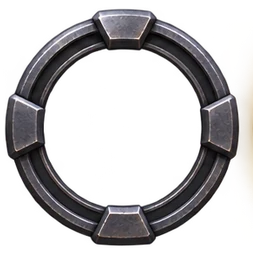
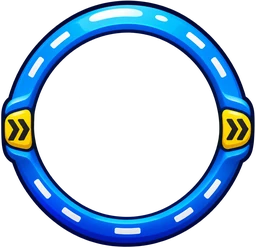
A-6: HUD estilo Supercell del Pack 19 (aros, +, rangos, panel del jugador, moneda, barras de vida)
Claude-Session: https://claude.ai/code/session_016LDX8vNq6QmcdLey8vJErm

diff --git a/public/batalla/autopista.html b/public/batalla/autopista.html
@@ -517,6 +517,41 @@ body.guiada #objetivo{display:none}body.cine #guia{visibility:hidden}
 .hb.hs::after{border-color:#e8eef6 !important;box-shadow:0 0 6px #fff6 !important;border-width:2px !important}
 .hb[data-k].pronta::after{border-color:#ffd21f !important;box-shadow:0 0 14px #ffd21fcc,inset 0 0 8px #ffd21f88 !important;inset:2% !important}
 .hb[data-k]:not(.pronta)::after{opacity:.75}
+</style><style>
+/* A-6 · Pack 19: aros de habilidad (hueco del 71 %; la definitiva, 66 %) */
+.hb[data-k]::after,.hb.hs::after{border:0 !important;box-shadow:none !important;border-radius:0 !important;background:url(ui/ap_aro_hab.webp) center/contain no-repeat !important;inset:-8% !important;opacity:1 !important;filter:drop-shadow(0 3px 3px #0008) !important}
+.hb[data-k].pronta::after{background-image:url(ui/ap_aro_hab_lista.webp) !important}
+#bR::after{background-image:url(ui/ap_aro_ulti.webp) !important;inset:-17% !important}
+#bR.pronta::after{background-image:url(ui/ap_aro_ulti_lista.webp) !important}
+.hb.hs::after{background-image:url(ui/ap_aro_hechizo.webp) !important}
+.hb[data-k]:not(.pronta)::after{filter:saturate(.75) brightness(.9) drop-shadow(0 3px 3px #0008) !important}
+.hb[data-k] img,.hb.hs img{inset:6% !important;width:88% !important;height:88% !important}
+.hb[data-k] .cd,.hb.hs .cd{inset:6% !important}
+.mas{background:url(ui/ap_mas.webp) center/contain no-repeat !important;border:0 !important;box-shadow:none !important;color:transparent !important;font-size:0 !important}
+.pip{gap:1px !important}.pip i{width:13px !important;height:7px !important;border:0 !important;border-radius:0 !important;background:url(ui/ap_punto_off.webp) center/contain no-repeat !important}
+.pip i.on{background-image:url(ui/ap_punto_on.webp) !important}
+/* panel del jugador: placa con el hueco del retrato (6,6 %–27,5 % del ancho) */
+#yo{width:196px;height:72px;box-sizing:border-box;background:url(ui/ap_panel_yo.webp) center/100% 100% no-repeat !important;border:0 !important;border-radius:0 !important;padding:0 10px 0 0 !important;gap:0 !important;position:relative}
+#yo::before{display:none !important}
+#yo img{width:44px !important;height:44px !important;margin:0 0 0 10px !important;border-radius:50%;border:0 !important}
+#yo>div{margin-left:18px;line-height:1.15;font-size:11px}
+#yoNv{position:absolute;left:38px;top:40px;width:26px;height:26px;background:url(ui/ap_insignia_nivel.webp) center/contain no-repeat;display:flex;align-items:center;justify-content:center;font:900 12px 'Arial Black',system-ui,sans-serif;color:#fff;-webkit-text-stroke:2px #0b1430;paint-order:stroke fill;z-index:2}
+#oro{display:flex;align-items:center;gap:3px;font-weight:900}#oro::before{content:'';width:15px;height:15px;background:url(ui/ap_moneda.webp) center/contain no-repeat;flex:none}
+.xp{width:92px !important;height:24px !important;box-sizing:border-box;background:url(ui/ap_barra_xp.webp) center/100% 100% no-repeat !important;border-radius:0 !important;padding:7px 14px 8px 16px;overflow:visible !important;margin:0 !important}
+.xp i{border-radius:3px}
+#vital{left:calc(208px + var(--sal)) !important}
+#kda{color:#fff !important;text-shadow:0 1px 0 #0b1430}
+#bTienda{top:calc(84px + var(--sat)) !important;width:54px !important;height:54px !important}
+#bZoom{top:calc(142px + var(--sat)) !important;width:46px !important;height:46px !important}
+#compraRapida{top:calc(84px + var(--sat)) !important}
+/* barras de vida de los héroes: la barra ocupa el hueco y el marco va encima (azul los tuyos, rojo enemigos, dorado tú) */
+.bv.h i{width:76px !important;height:9px !important;border:0 !important;border-radius:2px !important;box-shadow:none !important;background:#0b1220 !important;overflow:visible !important;z-index:0}
+.bv.h i u,.bv.h i s{border-radius:2px}
+.bv.h i::before{content:'';position:absolute;left:-15px;right:-13px;top:-6px;bottom:-6px;background:url(ui/ap_bv_azul.webp) center/100% 100% no-repeat;pointer-events:none;z-index:3}
+.bv.h.e1 i::before{background-image:url(ui/ap_bv_rojo.webp)}
+.bv.h.yo i{width:84px !important;height:10px !important}
+.bv.h.yo i::before{left:-20px;right:-20px;top:-8px;bottom:-8px;background-image:url(ui/ap_bv_yo.webp)}
+.bv.h b{margin-bottom:6px !important}.bv.h .mn{margin-top:6px}
 </style><style>#mFondo .fc{background-image:url(ui/ap_carga.webp)!important}#mFondo .ff,#mFondo .fm,#mFondo .fr{display:none}#menu .mSplash img{object-position:50% 0%!important}</style><style>.mTit h1.apLogo{margin:6px 0 0;line-height:0}.mTit h1.apLogo img{width:min(200px,calc(24 * var(--vw)));height:auto;filter:drop-shadow(0 4px 6px #000a)}.mTit h1.apA6{margin:6px 0 0;font:italic 900 46px 'Arial Black',system-ui,sans-serif!important;color:#ffd21f!important;letter-spacing:.04em;line-height:1;-webkit-text-stroke:2px #10161f;text-shadow:0 4px 0 #10161f,0 0 18px #2f8cff88}</style></head>
 <body>
 <div id="cargaVelo" class="hidden"><div class="cvR"></div><p>Preparando la autopista</p><b>0 %</b></div>

diff --git a/public/batalla/autopista.js b/public/batalla/autopista.js
@@ -2326,7 +2326,7 @@ function hud() {
    /* la botella llena se destapa de abajo arriba: el líquido ocupa del BOT_Y0 al BOT_Y1 de la altura del dibujo */
    if (HAY_BOTELLA) pon_($('vLle').style, 'clipPath', 'inset(' + (BOT_Y0 + (BOT_Y1 - BOT_Y0) * (1 - pm / 100)).toFixed(1) + '% 0 0 0)');
    const bj = pv < 30; if (vt._bj !== bj) {vt._bj = bj; vt.classList.toggle('poca', bj);} const sm = pm < 12; if (vt._sm !== sm) {vt._sm = sm; vt.classList.toggle('seca', sm);}}
-  pon_($('yoNv'), 'textContent', 'Nv ' + v.nivel); pon_($('oro'), 'textContent', '🪙 ' + v.oro); pon_($('xpBar').style, 'width', (v.nivel >= NIVEL_MAX ? 100 : Math.round((v.xpP || 0) * 100)) + '%');
+  pon_($('yoNv'), 'textContent', String(v.nivel)); pon_($('oro'), 'textContent', String(v.oro)); pon_($('xpBar').style, 'width', (v.nivel >= NIVEL_MAX ? 100 : Math.round((v.xpP || 0) * 100)) + '%');
   if (GUIA) guiaPaso(v);
   if (hud.nv !== undefined && v.nivel > hud.nv) subeNivelFx(v); hud.nv = v.nivel; rotuloZona(v);
   pon_($('kda'), 'textContent', (v.kda || '0/0/0/0').split('/').slice(0, 3).join(' / ') + '  ·  🗡 ' + (v.kda || '0/0/0/0').split('/')[3]);

diff --git a/tools/vado/hace_autopista.py b/tools/vado/hace_autopista.py
@@ -322,6 +322,45 @@ js = js.replace("VIS_MM.push([q.xi ?? q.x, q.zi ?? q.z, 13]); else if (q.k === '
 for a, b in [('La armería está en tu fuente', 'El taller está en tu base'), ('puedes comprar en la armería', 'puedes comprar en el taller'), ('compras en la armería', 'compras en el taller')]:
     if a not in js: fallos.append('[texto] ' + a)
     js = js.replace(a, b)
+# ---------- PACK 19 ART (17/11): HUD estilo Supercell (tools/autopista/procesa_pack19.py) ----------
+js = sub(js, "pon_($('oro'), 'textContent', '🪙 ' + v.oro);", "pon_($('oro'), 'textContent', String(v.oro));")
+js = sub(js, "pon_($('yoNv'), 'textContent', 'Nv ' + v.nivel);", "pon_($('yoNv'), 'textContent', String(v.nivel));")
+html = sub(html, '</head>', """<style>
+/* A-6 · Pack 19: aros de habilidad (hueco del 71 %; la definitiva, 66 %) */
+.hb[data-k]::after,.hb.hs::after{border:0 !important;box-shadow:none !important;border-radius:0 !important;background:url(ui/ap_aro_hab.webp) center/contain no-repeat !important;inset:-8% !important;opacity:1 !important;filter:drop-shadow(0 3px 3px #0008) !important}
+.hb[data-k].pronta::after{background-image:url(ui/ap_aro_hab_lista.webp) !important}
+#bR::after{background-image:url(ui/ap_aro_ulti.webp) !important;inset:-17% !important}
+#bR.pronta::after{background-image:url(ui/ap_aro_ulti_lista.webp) !important}
+.hb.hs::after{background-image:url(ui/ap_aro_hechizo.webp) !important}
+.hb[data-k]:not(.pronta)::after{filter:saturate(.75) brightness(.9) drop-shadow(0 3px 3px #0008) !important}
+.hb[data-k] img,.hb.hs img{inset:6% !important;width:88% !important;height:88% !important}
+.hb[data-k] .cd,.hb.hs .cd{inset:6% !important}
+.mas{background:url(ui/ap_mas.webp) center/contain no-repeat !important;border:0 !important;box-shadow:none !important;color:transparent !important;font-size:0 !important}
+.pip{gap:1px !important}.pip i{width:13px !important;height:7px !important;border:0 !important;border-radius:0 !important;background:url(ui/ap_punto_off.webp) center/contain no-repeat !important}
+.pip i.on{background-image:url(ui/ap_punto_on.webp) !important}
+/* panel del jugador: placa con el hueco del retrato (6,6 %–27,5 % del ancho) */
+#yo{width:196px;height:72px;box-sizing:border-box;background:url(ui/ap_panel_yo.webp) center/100% 100% no-repeat !important;border:0 !important;border-radius:0 !important;padding:0 10px 0 0 !important;gap:0 !important;position:relative}
+#yo::before{display:none !important}
+#yo img{width:44px !important;height:44px !important;margin:0 0 0 10px !important;border-radius:50%;border:0 !important}
+#yo>div{margin-left:18px;line-height:1.15;font-size:11px}
+#yoNv{position:absolute;left:38px;top:40px;width:26px;height:26px;background:url(ui/ap_insignia_nivel.webp) center/contain no-repeat;display:flex;align-items:center;justify-content:center;font:900 12px 'Arial Black',system-ui,sans-serif;color:#fff;-webkit-text-stroke:2px #0b1430;paint-order:stroke fill;z-index:2}
+#oro{display:flex;align-items:center;gap:3px;font-weight:900}#oro::before{content:'';width:15px;height:15px;background:url(ui/ap_moneda.webp) center/contain no-repeat;flex:none}
+.xp{width:92px !important;height:24px !important;box-sizing:border-box;background:url(ui/ap_barra_xp.webp) center/100% 100% no-repeat !important;border-radius:0 !important;padding:7px 14px 8px 16px;overflow:visible !important;margin:0 !important}
+.xp i{border-radius:3px}
+#vital{left:calc(208px + var(--sal)) !important}
+#kda{color:#fff !important;text-shadow:0 1px 0 #0b1430}
+#bTienda{top:calc(84px + var(--sat)) !important;width:54px !important;height:54px !important}
+#bZoom{top:calc(142px + var(--sat)) !important;width:46px !important;height:46px !important}
+#compraRapida{top:calc(84px + var(--sat)) !important}
+/* barras de vida de los héroes: la barra ocupa el hueco y el marco va encima (azul los tuyos, rojo enemigos, dorado tú) */
+.bv.h i{width:76px !important;height:9px !important;border:0 !important;border-radius:2px !important;box-shadow:none !important;background:#0b1220 !important;overflow:visible !important;z-index:0}
+.bv.h i u,.bv.h i s{border-radius:2px}
+.bv.h i::before{content:'';position:absolute;left:-15px;right:-13px;top:-6px;bottom:-6px;background:url(ui/ap_bv_azul.webp) center/100% 100% no-repeat;pointer-events:none;z-index:3}
+.bv.h.e1 i::before{background-image:url(ui/ap_bv_rojo.webp)}
+.bv.h.yo i{width:84px !important;height:10px !important}
+.bv.h.yo i::before{left:-20px;right:-20px;top:-8px;bottom:-8px;background-image:url(ui/ap_bv_yo.webp)}
+.bv.h b{margin-bottom:6px !important}.bv.h .mn{margin-top:6px}
+</style></head>""", donde='html')
 # ---------- EL PUENTE (17/11, Arturo: «como si estuvieses encima de un puente cruzando algo, y a los lados paisaje») ----------
 # el tablero (|x| < 11) cruza un barranco con río entre z = -38 y 38; las bases quedan en tierra firme a los dos lados
 js = sub(js, "      gl_FragColor=vec4(col,1.);\n      #include <colorspace_fragment>", "      gl_FragColor=vec4(col,hueco);\n      #include <colorspace_fragment>")

diff --git a/tools/autopista/procesa_pack19.py b/tools/autopista/procesa_pack19.py
@@ -1,0 +1,76 @@
+"""A-6 · Pack 19 ART (HUD estilo Supercell). Ejecutar: python3 -I tools/autopista/procesa_pack19.py"""
+import os
+import numpy as np
+from PIL import Image
+from scipy import ndimage
+
+R = os.path.dirname(os.path.dirname(os.path.dirname(os.path.abspath(__file__))))
+P, UI = os.path.join(R, 'tools/autopista/pack19'), os.path.join(R, 'public/batalla/ui')
+
+
+def quita_claro(im, huecos=0.0):
+    """Quita el fondo claro (blanco o cuadros grises pintados) unido al borde; con huecos>0 también los
+    huecos claros cerrados más grandes que esa fracción de la imagen (interior de las barras)."""
+    a = np.array(im.convert('RGBA')).astype(int)
+    rgb = a[..., :3]
+    claro = (rgb.min(-1) > 188) & (rgb.max(-1) - rgb.min(-1) < 22)
+    lab, n = ndimage.label(claro)
+    ids = set(np.unique(np.concatenate([lab[0], lab[-1], lab[:, 0], lab[:, -1]]))) - {0}
+    if huecos:
+        tam = np.bincount(lab.ravel())
+        ids |= {i for i in range(1, n + 1) if tam[i] > huecos * claro.size}
+    fondo = np.isin(lab, list(ids))
+    suave = (rgb.min(-1) > 160) & (rgb.max(-1) - rgb.min(-1) < 30)
+    for _ in range(3):
+        fondo |= ndimage.binary_dilation(fondo) & suave
+    a[..., 3] = np.where(fondo, 0, a[..., 3])
+    return Image.fromarray(a.astype(np.uint8), 'RGBA')
+
+
+def guarda(im, nombre, lado):
+    im = im.crop(im.getbbox()); im.thumbnail((lado, lado), Image.LANCZOS)
+    im.save(os.path.join(UI, nombre + '.webp'), 'WEBP', quality=90, method=6)
+    return im
+
+
+def hueco(im):
+    """radio del hueco central / radio exterior (para colocar el dibujo dentro del aro)"""
+    a = np.array(im)[..., 3]; h, w = a.shape; cy, cx = h // 2, w // 2
+    x = cx
+    while x < w and a[cy, x] < 40: x += 1
+    return (x - cx) / (w / 2)
+
+
+for n in ['aro_hab', 'aro_hab_lista', 'aro_ulti', 'aro_ulti_lista', 'aro_hechizo']:
+    im = guarda(Image.open(f'{P}/ap_{n}.png').convert('RGBA'), 'ap_' + n, 256)
+    print(n, im.size, 'hueco %.3f' % hueco(im))
+for n in ['mas', 'insignia_nivel']:
+    print(n, guarda(Image.open(f'{P}/ap_{n}.png').convert('RGBA'), 'ap_' + n, 192).size)
+for n in ['punto_on', 'punto_off']:
+    print(n, guarda(Image.open(f'{P}/ap_{n}.png').convert('RGBA'), 'ap_' + n, 128).size)
+im = guarda(Image.open(f'{P}/ap_panel_yo.png').convert('RGBA'), 'ap_panel_yo', 1024)
+a = np.array(im)[..., 3]; h, w = a.shape
+cols = np.nonzero(a[h // 2] < 40)[0]; cols = cols[(cols > 5) & (cols < w * 0.4)]
+print('panel_yo', im.size, 'hueco x %.3f-%.3f de ancho' % (cols.min() / w, cols.max() / w))
+print('moneda', guarda(quita_claro(Image.open(f'{P}/ap_moneda.png')), 'ap_moneda', 128).size)
+# hoja: marco de experiencia, moneda y barras de vida azul/roja/dorada
+hoja = quita_claro(Image.open(f'{P}/ap_hoja_barras.png'), huecos=0.004)
+al = np.array(hoja)[..., 3] > 30
+lab, n = ndimage.label(ndimage.binary_closing(al, iterations=4))
+cajas = [s for s in ndimage.find_objects(lab) if (s[0].stop - s[0].start) * (s[1].stop - s[1].start) > 0.01 * al.size]
+for s in sorted(cajas, key=lambda s: (s[1].start > 700, s[0].start)):
+    y0, y1, x0, x1 = s[0].start, s[0].stop, s[1].start, s[1].stop
+    pieza = hoja.crop((x0, y0, x1, y1))
+    r, g, b = np.array(pieza.convert('RGB')).reshape(-1, 3).astype(int).T
+    m = np.array(pieza)[..., 3].ravel() > 100
+    cr, cg, cb = r[m].mean(), g[m].mean(), b[m].mean()
+    if x1 - x0 < 1.6 * (y1 - y0): nombre = None  # la moneda repetida
+    elif x0 < 300: nombre = 'ap_barra_xp'
+    elif cb > cr + 30: nombre = 'ap_bv_azul'
+    elif cr > cg + 60: nombre = 'ap_bv_rojo'
+    else: nombre = 'ap_bv_yo'
+    if nombre:
+        p = guarda(pieza, nombre, 600)
+        aa = np.array(p)[..., 3]; hh, ww = aa.shape; fila = np.nonzero(aa[hh // 2] < 40)[0]; colm = np.nonzero(aa[:, ww // 2] < 40)[0]
+        fila = fila[(fila > ww * .05) & (fila < ww * .95)]; colm = colm[(colm > hh * .1) & (colm < hh * .9)]
+        print(nombre, p.size, 'hueco x %.3f-%.3f y %.3f-%.3f' % (fila.min() / ww, fila.max() / ww, colm.min() / hh, colm.max() / hh))

diff --git a/CLAUDE.md b/CLAUDE.md
@@ -239,5 +239,6 @@ Juego web privado para 9 amigos (Arturo, Porru, Adrián, Carlos, Fer, Edo, Rodri
 - PACKS 16 y 17 ART (17/11, originales en `tools/autopista/pack16` y `pack17`, se pasan con `python3 -I tools/autopista/procesa_pack16_17.py`): fondo del barranco (`texturas/ap_barranco.webp`, río de lado a lado, 120 m por copia y los 80 m del barranco de alto) y paredes (`texturas/ap_pared_roca.webp`, 24 m = la imagen); logo `ui/ap_logo_a6.webp` (fondo blanco quitado) e icono A-6 (web y mipmaps de Android). Niebla de día clara `#9fc3dc` 60-170 (la verde oscura de La Brecha ennegrecía el barranco).
 - HUD DE PARTIDA A-6 (17/11, Arturo; bloque «HUD DE PARTIDA» del generador): minimapa arriba del todo con NIEBLA (solo se ven enemigos dentro de la vista de tu héroe 13 m, tus soldados 8 m, tus torres 13 m y tus balizas 10 m: `VIS_MM`, `vistoMm`, `NIEBLA_MM`; en el mundo 3D sigue sin niebla), marcador nuevo [azul | reloj | rojo] centrado arriba, batería de energía junto al retrato (arriba a la izquierda), R más arriba (`#bR` bottom 172), aros de las habilidades de color por CSS (cian, R naranja, lista dorada) en vez del aro metálico gris.
 - NIEBLA EN EL MAPA (17/11, como el LoL): con la vista del minimapa (`VIS_MM`: héroe 14 m, soldados 9, torres 13, balizas 10) se pinta `NIEBLA_SUELO` (64x140, 1 px = 1 m) → `NIEBLA_TEX` y el suelo se oscurece un 58 % fuera de la vista; héroes enemigos fuera de la vista = «escondidos» (no se ven ni se pueden señalar) y soldados enemigos ocultos. Solo en el cliente (la simulación no cambia).
+- PACK 19 ART (17/11, HUD estilo Supercell, originales en `tools/autopista/pack19`, `python3 -I tools/autopista/procesa_pack19.py`, que mide los huecos): aros de habilidad azul/dorado (hueco 71 %), definitiva naranja (66 %), hechizos blanco, botón + verde, puntos de rango, panel del jugador `ap_panel_yo` (retrato en el hueco 6,6-27,5 %, nivel en la insignia, moneda de cono, barra de experiencia con marco) y marcos de las barras de vida de los héroes (azul/rojo/dorado tú; el marco va en `.bv.h i::before` alrededor de la barra, que ocupa justo el hueco). Bloque «PACK 19 ART» del generador.
 - APP ANDROID DE LA AUTOPISTA (17/11): módulo `android/autopista` (copia de `android/brecha`, applicationId `com.laotracomunidad.autopista`, misma firma, abre `/batalla/autopista.html`, icono del cono y carga del Pack 4). El workflow `apk.yml` la compila con las otras y publica `la-autopista.apk` en la release `autopista-latest`. Sin compilar en la sesión (no hay SDK de Android).
 - Prueba: `/home/claude/pruebas/t_auto.py <clave>` (Playwright, servidor en public:8799).

diff --git a/docs/pendiente-chatgpt.md b/docs/pendiente-chatgpt.md
@@ -62,5 +62,5 @@ ART = chat normal de ChatGPT (no gasta tokens). WORK = modo agente (gasta tokens
 - [ ] Pack Autopista 16 WORK: decorado del fondo del barranco (`ap_barranco_props.glb`: rocas, árboles, arbustos, troncos caídos, juncos) y pilas del puente (`ap_pila.glb`, `ap_estribo.glb`), CC0
 - [x] (HECHO 17/11, `tools/autopista/pack17`) Pack Autopista 17 ART: logo «A-6» del menú (`ap_logo_a6.png`, 1600x640, transparente) e icono de la app con la señal A-6 — el juego pasa a llamarse A-6 (17/11)
 - [ ] Pack Autopista 18 ART (A y B): marcas de apuntado y alcance propias de cada héroe de A-6 (`ap_ind_<clave>_<q|w|e|r|alcance>.png`; líneas 1024x256 hacia la derecha, conos y círculos 512x512) — 17/11
-- [ ] Pack Autopista 19 ART: HUD estilo Supercell — aros de habilidad (normal/lista/definitiva), botón +, puntos de rango, aro de hechizo, panel del jugador (retrato, nivel, experiencia, oro, KDA), barras de vida sobre la cabeza (17/11)
+- [x] (HECHO 17/11, `tools/autopista/pack19`) Pack Autopista 19 ART: HUD estilo Supercell — aros de habilidad (normal/lista/definitiva), botón +, puntos de rango, aro de hechizo, panel del jugador (retrato, nivel, experiencia, oro, KDA), barras de vida sobre la cabeza (17/11)
 - [ ] Pack Autopista 20 ART: Taller estilo Supercell — panel, huecos de objeto (normal/legendario/seleccionado), pestañas, botón COMPRAR, etiqueta de precio, ficha de objeto (17/11)
